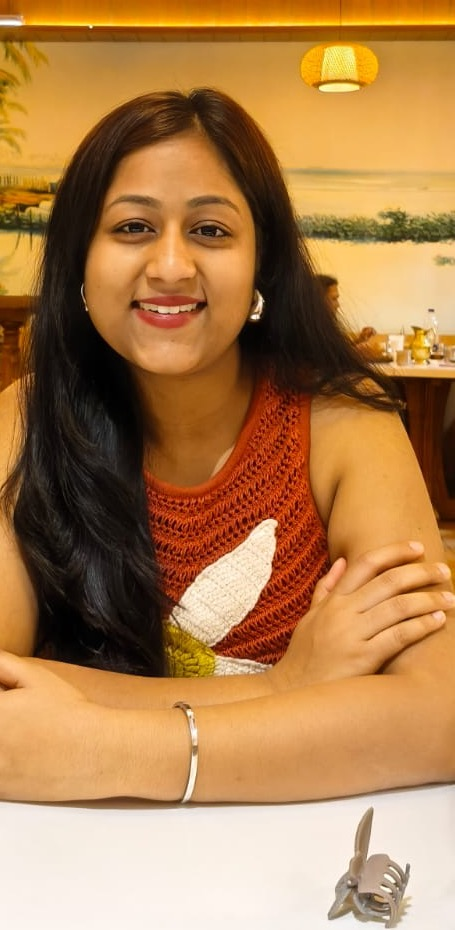
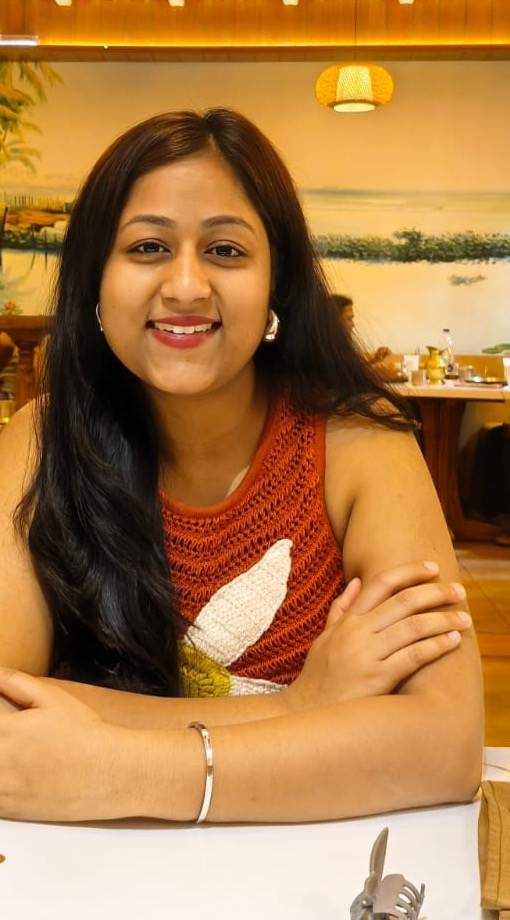
Full-arms photo crop, ticker, card tilt, heading scramble, hero spotlight
Claude-Session: https://claude.ai/code/session_01GHjZpMRUmW9y2FzQp8sN73

diff --git a/index.html b/index.html
@@ -233,6 +233,35 @@
   .term-foot a { color: var(--text-low); font-size: 10px; letter-spacing: 0.08em; text-transform: uppercase; }
   .term-foot a:hover { color: var(--accent); }
 
+  /* ============ Ticker ============ */
+  .ticker {
+    border-top: 1px solid var(--line-soft);
+    overflow: hidden;
+    padding: 13px 0;
+  }
+  .ticker-track {
+    display: flex;
+    width: max-content;
+    animation: tick 30s linear infinite;
+  }
+  .ticker:hover .ticker-track { animation-play-state: paused; }
+  .tgroup { display: flex; align-items: center; gap: 28px; padding-right: 28px; }
+  .tgroup span {
+    font-family: "JetBrains Mono", ui-monospace, monospace;
+    font-size: 11px; letter-spacing: 0.14em; text-transform: uppercase;
+    white-space: nowrap;
+  }
+  .tgroup .dia { color: var(--line); font-size: 8px; }
+  @keyframes tick { to { transform: translateX(-50%); } }
+
+  /* ============ Hero spotlight ============ */
+  .hero-spot {
+    position: absolute; inset: 0;
+    pointer-events: none;
+    opacity: 0;
+    transition: opacity 0.4s ease;
+  }
+
   /* ============ Sections ============ */
   section { padding: 72px 0; border-top: 1px solid var(--line-soft); position: relative; }
 
@@ -624,6 +653,7 @@
   <!-- ============ Hero ============ -->
   <div class="hero">
     <div class="hero-drift" aria-hidden="true"></div>
+    <div class="hero-spot" aria-hidden="true"></div>
     <div class="wrap">
       <div class="hero-grid">
         <div>
@@ -655,6 +685,34 @@
             <a href="https://purchase-decision-api-production.up.railway.app/swagger-ui/index.html" target="_blank" rel="noopener">Real one &#8599; Swagger</a>
           </div>
         </div>
+      </div>
+    </div>
+  </div>
+
+  <!-- ============ Ticker ============ -->
+  <div class="ticker" aria-hidden="true">
+    <div class="ticker-track">
+      <div class="tgroup">
+        <span style="color:var(--accent)">Spring Boot 3</span><span class="dia">&#9670;</span>
+        <span style="color:var(--text-low)">Java 21</span><span class="dia">&#9670;</span>
+        <span style="color:var(--sand)">PostgreSQL</span><span class="dia">&#9670;</span>
+        <span style="color:var(--text-low)">JWT Auth</span><span class="dia">&#9670;</span>
+        <span style="color:var(--sky)">Docker</span><span class="dia">&#9670;</span>
+        <span style="color:var(--text-low)">REST APIs</span><span class="dia">&#9670;</span>
+        <span style="color:var(--violet)">CI/CD</span><span class="dia">&#9670;</span>
+        <span style="color:var(--text-low)">JUnit 5</span><span class="dia">&#9670;</span>
+        <span style="color:var(--lime)">Open to work</span><span class="dia">&#9670;</span>
+      </div>
+      <div class="tgroup">
+        <span style="color:var(--accent)">Spring Boot 3</span><span class="dia">&#9670;</span>
+        <span style="color:var(--text-low)">Java 21</span><span class="dia">&#9670;</span>
+        <span style="color:var(--sand)">PostgreSQL</span><span class="dia">&#9670;</span>
+        <span style="color:var(--text-low)">JWT Auth</span><span class="dia">&#9670;</span>
+        <span style="color:var(--sky)">Docker</span><span class="dia">&#9670;</span>
+        <span style="color:var(--text-low)">REST APIs</span><span class="dia">&#9670;</span>
+        <span style="color:var(--violet)">CI/CD</span><span class="dia">&#9670;</span>
+        <span style="color:var(--text-low)">JUnit 5</span><span class="dia">&#9670;</span>
+        <span style="color:var(--lime)">Open to work</span><span class="dia">&#9670;</span>
       </div>
     </div>
   </div>
@@ -991,7 +1049,7 @@
           <p class="reveal" style="--d:.14s">Everything in my projects is code I wrote, deployed, and can explain line by line, including what I'd do differently. And when I figure something out the hard way, I <a href="https://medium.com/@vaishnaviagrawal2999" target="_blank" rel="noopener">write it down</a> so the next person doesn't have to.</p>
         </div>
         <figure class="portrait reveal" style="--d:.1s">
-          <img src="photo.jpg" alt="Vaishnavi Agrawal" loading="lazy" width="455" height="930">
+          <img src="photo.jpg" alt="Vaishnavi Agrawal" loading="lazy" width="510" height="920">
           <figcaption class="mono">
             <span>Vaishnavi Agrawal</span>
             <span class="tag">// hi</span>
@@ -1182,7 +1240,70 @@
     }, { passive: true });
   }
 
-  /* ---------- 5. Konami code ---------- */
+  /* ---------- 5. Card 3D tilt ---------- */
+  if (!reduced && window.matchMedia("(hover: hover)").matches) {
+    document.querySelectorAll(".card").forEach(function (card) {
+      card.addEventListener("mouseenter", function () {
+        card.style.transition = "transform 0.08s linear, border-color 0.3s ease, box-shadow 0.3s ease";
+      });
+      card.addEventListener("mousemove", function (e) {
+        var r = card.getBoundingClientRect();
+        var px = (e.clientX - r.left) / r.width - 0.5;
+        var py = (e.clientY - r.top) / r.height - 0.5;
+        card.style.transform = "translateY(-6px) perspective(900px) rotateX(" + (-py * 4).toFixed(2) + "deg) rotateY(" + (px * 5).toFixed(2) + "deg)";
+      }, { passive: true });
+      card.addEventListener("mouseleave", function () {
+        card.style.transition = "";
+        card.style.transform = "";
+      });
+    });
+  }
+
+  /* ---------- 6. Section heading scramble ---------- */
+  var GLYPHS = "#/<>[]{}=+*";
+  function scramble(elm) {
+    var finalText = elm.textContent;
+    var start = null, dur = 600;
+    function frame(ts) {
+      if (!start) start = ts;
+      var p = Math.min((ts - start) / dur, 1);
+      var settled = Math.floor(p * finalText.length);
+      var out = finalText.slice(0, settled);
+      for (var i = settled; i < finalText.length; i++) {
+        out += finalText[i] === " " ? " " : GLYPHS[Math.floor(Math.random() * GLYPHS.length)];
+      }
+      elm.textContent = out;
+      if (p < 1) requestAnimationFrame(frame);
+      else elm.textContent = finalText;
+    }
+    requestAnimationFrame(frame);
+  }
+  if (!reduced && "IntersectionObserver" in window) {
+    var sio = new IntersectionObserver(function (entries) {
+      entries.forEach(function (entry) {
+        if (entry.isIntersecting) {
+          scramble(entry.target);
+          sio.unobserve(entry.target);
+        }
+      });
+    }, { threshold: 0.6 });
+    document.querySelectorAll(".section-head h2").forEach(function (h) { sio.observe(h); });
+  }
+
+  /* ---------- 7. Hero cursor spotlight ---------- */
+  var hero = document.querySelector(".hero");
+  var spot = document.querySelector(".hero-spot");
+  if (hero && spot && !reduced && window.matchMedia("(hover: hover)").matches) {
+    hero.addEventListener("mousemove", function (e) {
+      var r = hero.getBoundingClientRect();
+      var x = e.clientX - r.left, y = e.clientY - r.top;
+      spot.style.opacity = "1";
+      spot.style.background = "radial-gradient(240px at " + x + "px " + y + "px, rgba(95, 179, 167, 0.10), transparent 70%)";
+    }, { passive: true });
+    hero.addEventListener("mouseleave", function () { spot.style.opacity = "0"; });
+  }
+
+  /* ---------- 8. Konami code ---------- */
   var KONAMI = ["ArrowUp","ArrowUp","ArrowDown","ArrowDown","ArrowLeft","ArrowRight","ArrowLeft","ArrowRight","b","a"];
   var kIdx = 0;
   var toast = document.getElementById("toast");